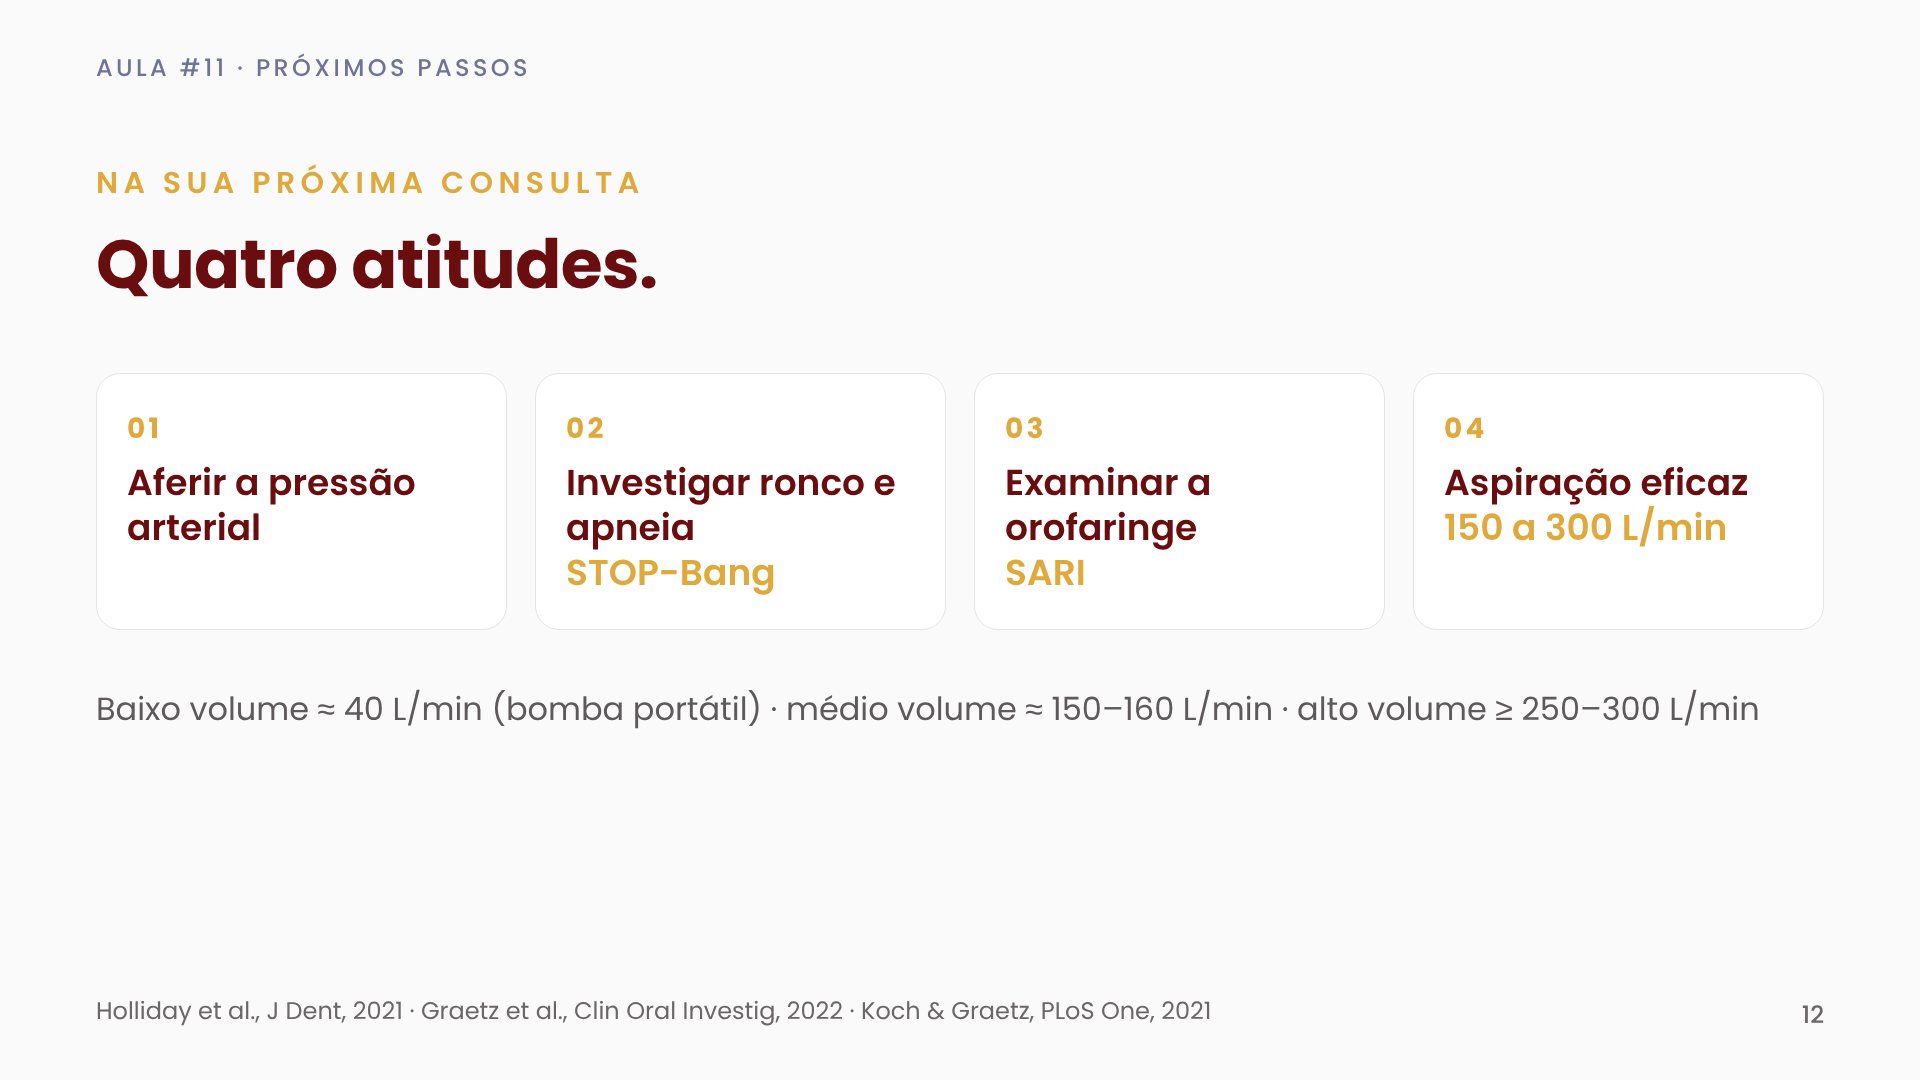
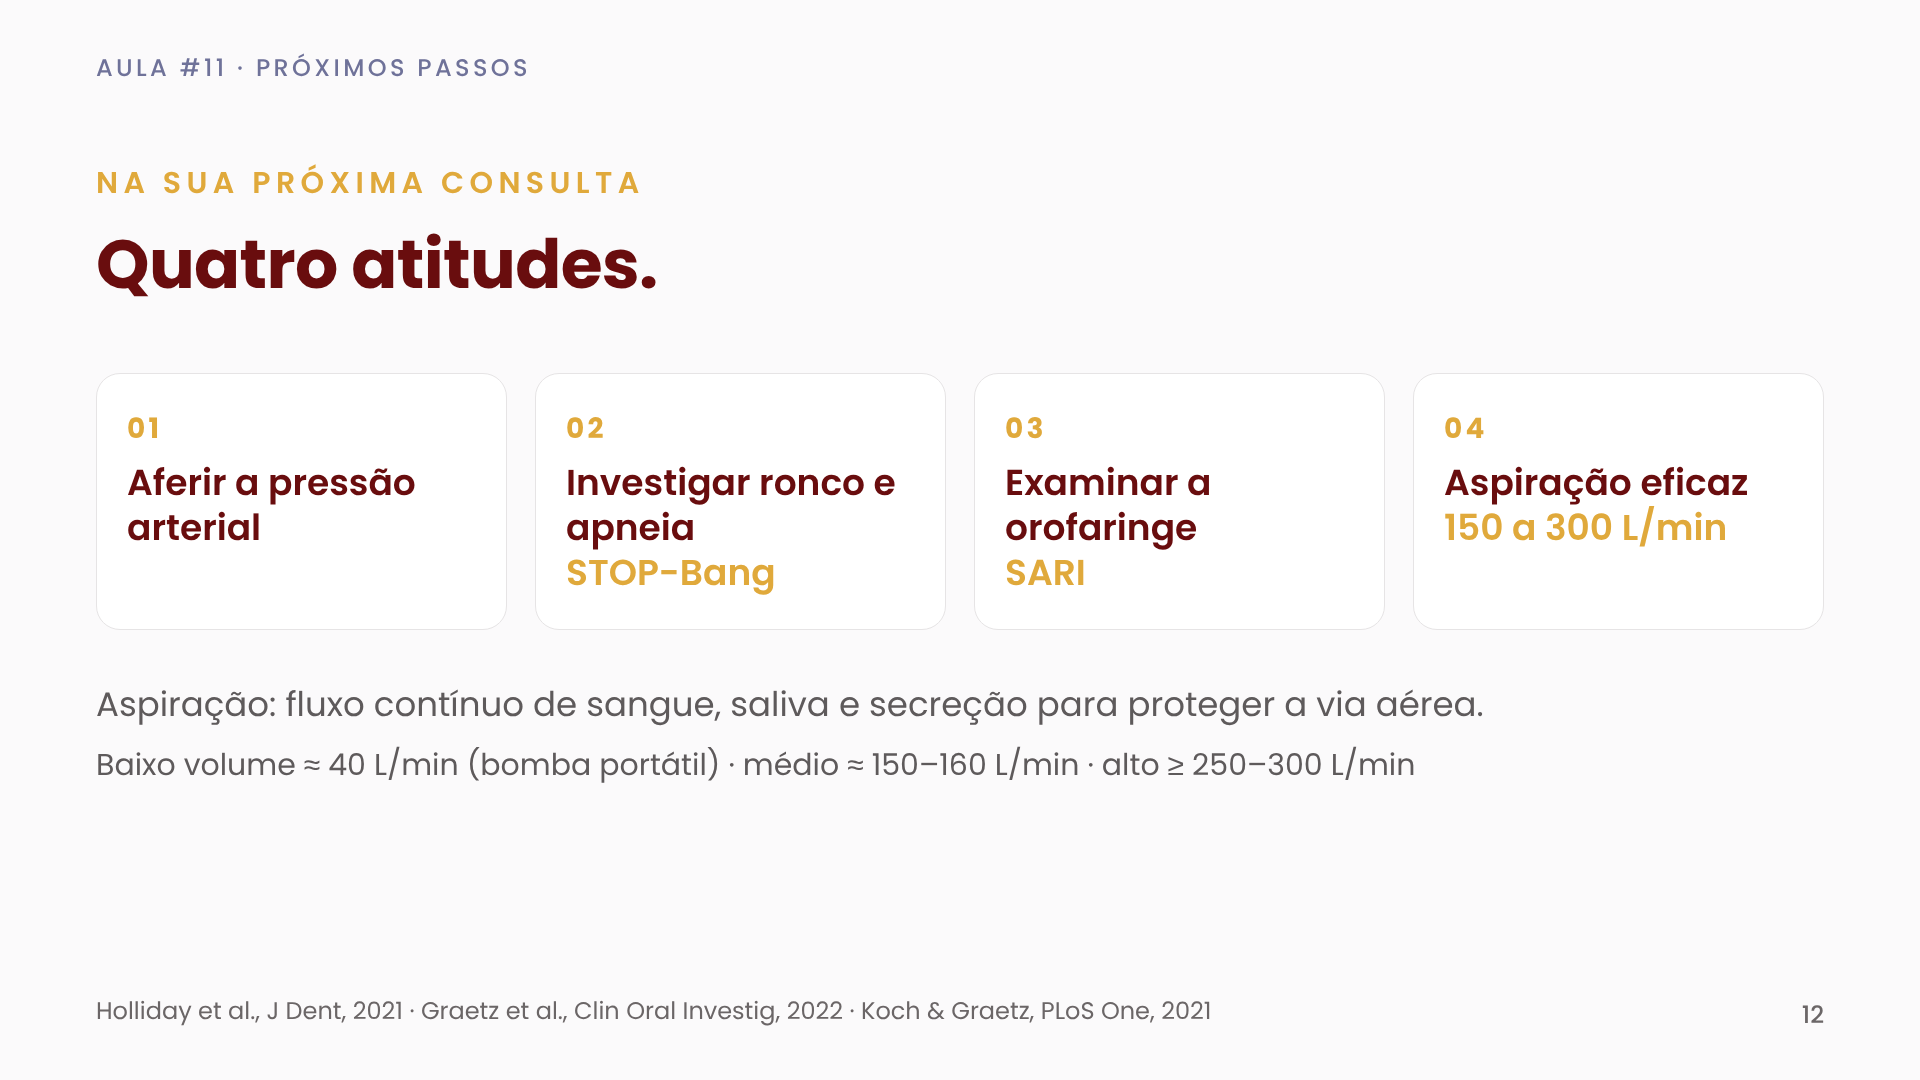
Aula #11: função da bomba a vácuo = fluxo contínuo de sangue, saliva e secreção (proteção da via aérea)
Claude-Session: https://claude.ai/code/session_01MYEGXM9LVv4Rd1VsREZmpT

Changed region(s): [[0.0312, 0.6417, 0.9062, 0.6722], [0.0625, 0.7028, 0.75, 0.7333]]

diff --git a/aulas-vias-aereas/slides-aula11/aula11-slides.html b/aulas-vias-aereas/slides-aula11/aula11-slides.html
@@ -269,7 +269,8 @@ table.dose td b{color:var(--wine)}
       <div class="step"><div class="n">03</div><p>Examinar a orofaringe<br><span style="color:var(--gold)">SARI</span></p></div>
       <div class="step"><div class="n">04</div><p>Aspiração eficaz<br><span style="color:var(--gold)">150 a 300 L/min</span></p></div>
     </div>
-    <p class="lead" style="margin-top:56px;font-size:32px">Baixo volume ≈ 40 L/min (bomba portátil) · médio volume ≈ 150–160 L/min · alto volume ≥ 250–300 L/min</p>
+    <p class="lead" style="margin-top:50px;font-size:34px">Aspiração: fluxo contínuo de sangue, saliva e secreção para proteger a via aérea.</p>
+    <p class="lead" style="margin-top:14px;font-size:30px">Baixo volume ≈ 40 L/min (bomba portátil) · médio ≈ 150–160 L/min · alto ≥ 250–300 L/min</p>
   </div>
   <div class="foot">Holliday et al., J Dent, 2021 · Graetz et al., Clin Oral Investig, 2022 · Koch &amp; Graetz, PLoS One, 2021</div>
   <div class="num">12</div>

diff --git a/aulas-vias-aereas/05-aula11-pacote-da-semana.md b/aulas-vias-aereas/05-aula11-pacote-da-semana.md
@@ -306,7 +306,8 @@ E cai a última peça do nosso dominó."
 
 **Slide 8:** "Na sua próxima consulta: quatro atitudes." 1. Aferir a pressão
 arterial · 2. Investigar ronco e apneia (STOP-Bang) · 3. Examinar a orofaringe
-(SARI) · 4. Aspiração eficaz (150 a 300 L/min). Linha de apoio: baixo volume
+(SARI) · 4. Aspiração eficaz (150 a 300 L/min): fluxo contínuo de sangue,
+saliva e secreção para proteger a via aérea. Linha de apoio: baixo volume
 ≈ 40 L/min (bomba portátil) · médio ≈ 150–160 L/min · alto ≥ 250–300 L/min.
 Rodapé: Holliday et al., J Dent, 2021 · Graetz et al., Clin Oral Investig, 2022
 · Koch & Graetz, PLoS One, 2021.
@@ -322,7 +323,9 @@ no Rio · Trilha 295 Online, 104 h · envie TRILHA no WhatsApp.
 "Para a sua próxima consulta, quatro atitudes. Primeira: aferir a pressão
 arterial. Segunda: investigar ronco e apneia, com o STOP-Bang. Terceira:
 examinar a orofaringe, com o SARI. Quarta: garantir uma aspiração eficaz antes
-de iniciar o procedimento. A literatura diferencia: a aspiração de baixo volume,
+de iniciar o procedimento. A função da bomba a vácuo não é desobstruir: é manter
+um fluxo contínuo de aspiração de sangue, saliva e secreção, protegendo a via
+aérea durante todo o atendimento. E o fluxo importa. A literatura diferencia: a aspiração de baixo volume,
 como a de muitas bombas portáteis, opera em torno de 40 litros por minuto; a de
 médio volume, em torno de 150; a de alto volume, entre 250 e 350 litros por
 minuto — Holliday e colaboradores, 2021; Graetz e colaboradores, 2022. Para
